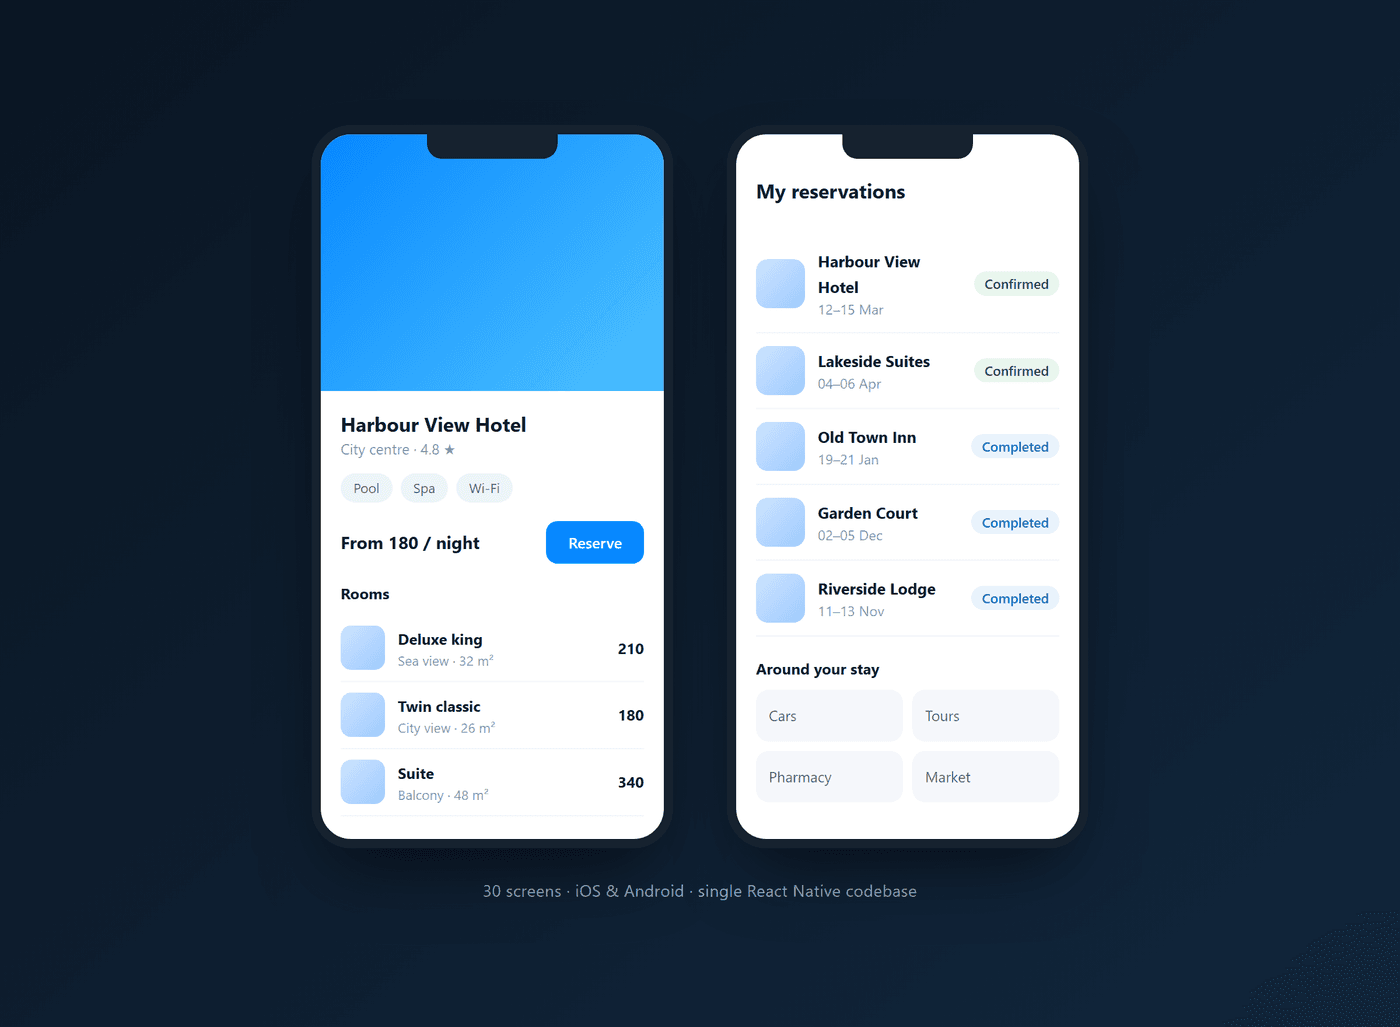
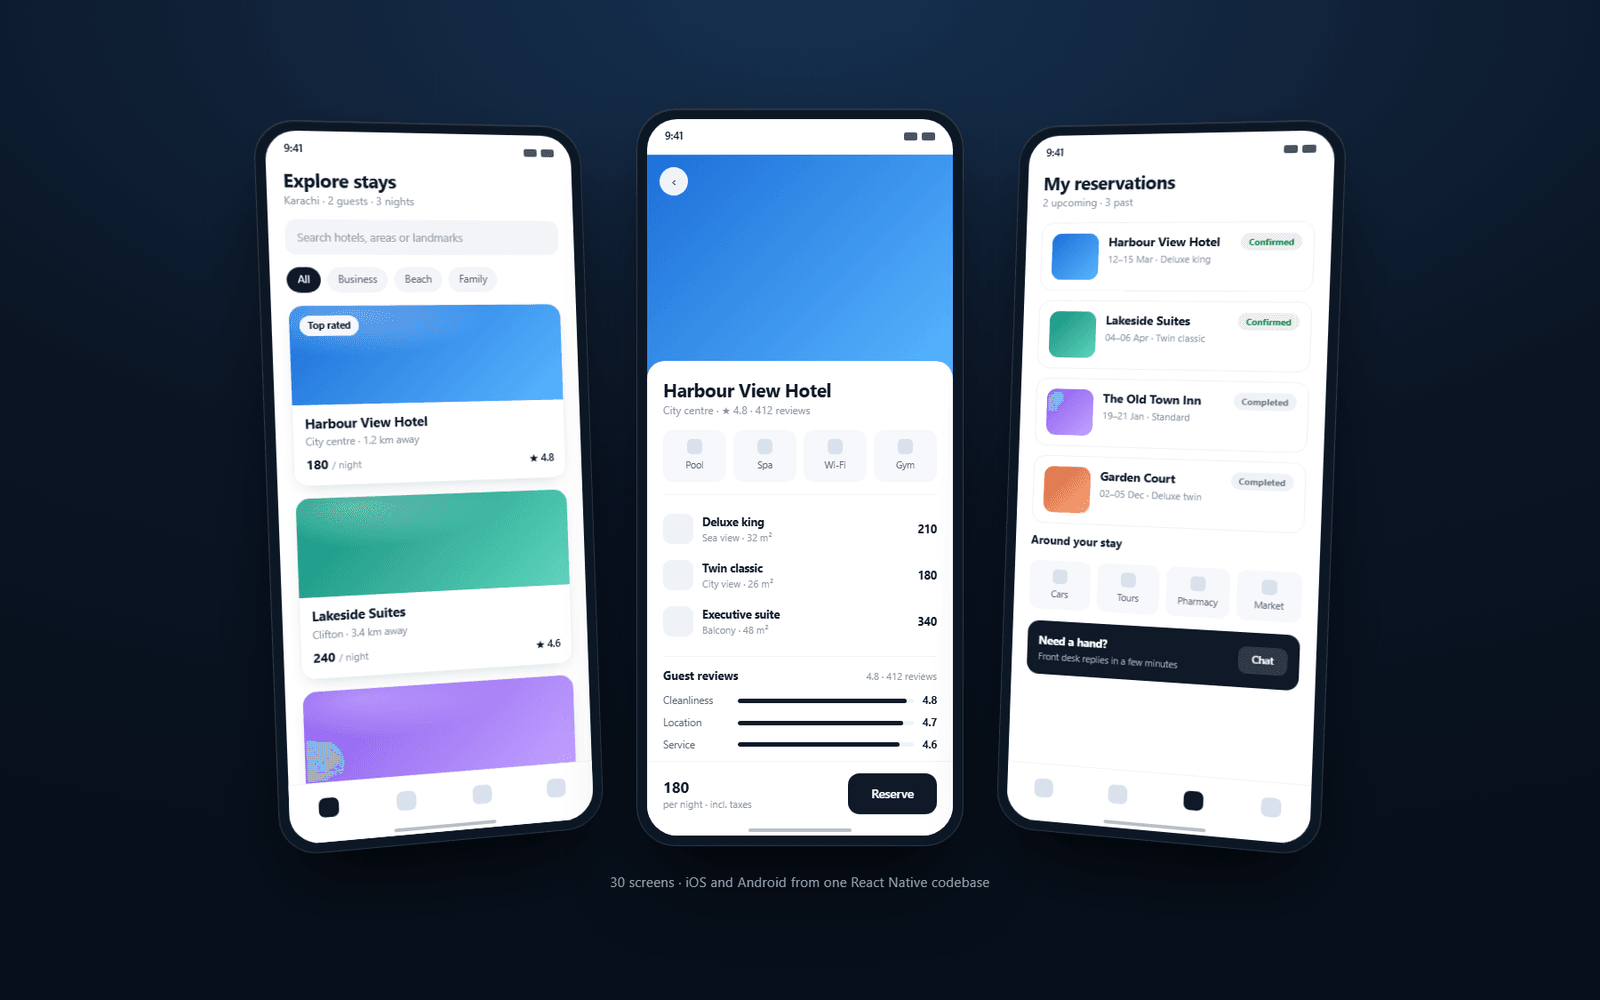
feat: real screenshots in, and two built to match
Four captures came in under new filenames, which left content.ts pointing at
files that no longer existed. Repointed those, and built the two that had no
capture - the vendor portal and the guest app - at the same density and type
scale as the real ones rather than as flat placeholder tiles. Every vendor,
document number and guest name in them is invented.

Requantised all six: 664KB of okulium alone became 155KB, and the set now
ships at 772KB instead of 1.3MB.

diff --git a/src/data/content.ts b/src/data/content.ts
@@ -129,7 +129,7 @@ export type ProjectItem = {
 
 const allProjects: ProjectItem[] = [
   {
-    thumbUrl: "/images/qa-app.png",
+    thumbUrl: "/images/integra.png",
     title: "Integra",
     oneLiner: "Approvals modelled as a state machine, because inspections bounce backwards on rejection.",
     subTitle: "Quality Inspection Platform",
@@ -154,7 +154,7 @@ const allProjects: ProjectItem[] = [
     },
   },
   {
-    thumbUrl: "/images/cortex-demo.png",
+    thumbUrl: "/images/cortex.png",
     title: "Cortex",
     featured: true,
     oneLiner:
@@ -220,7 +220,7 @@ const allProjects: ProjectItem[] = [
     },
   },
   {
-    thumbUrl: "/images/lia.png",
+    thumbUrl: "/images/lawintoaction.png",
     title: "Law in Action",
     oneLiner: "Translation fails over across four providers so compliance work never stalls.",
     subTitle: "Global Regulations Platform",
